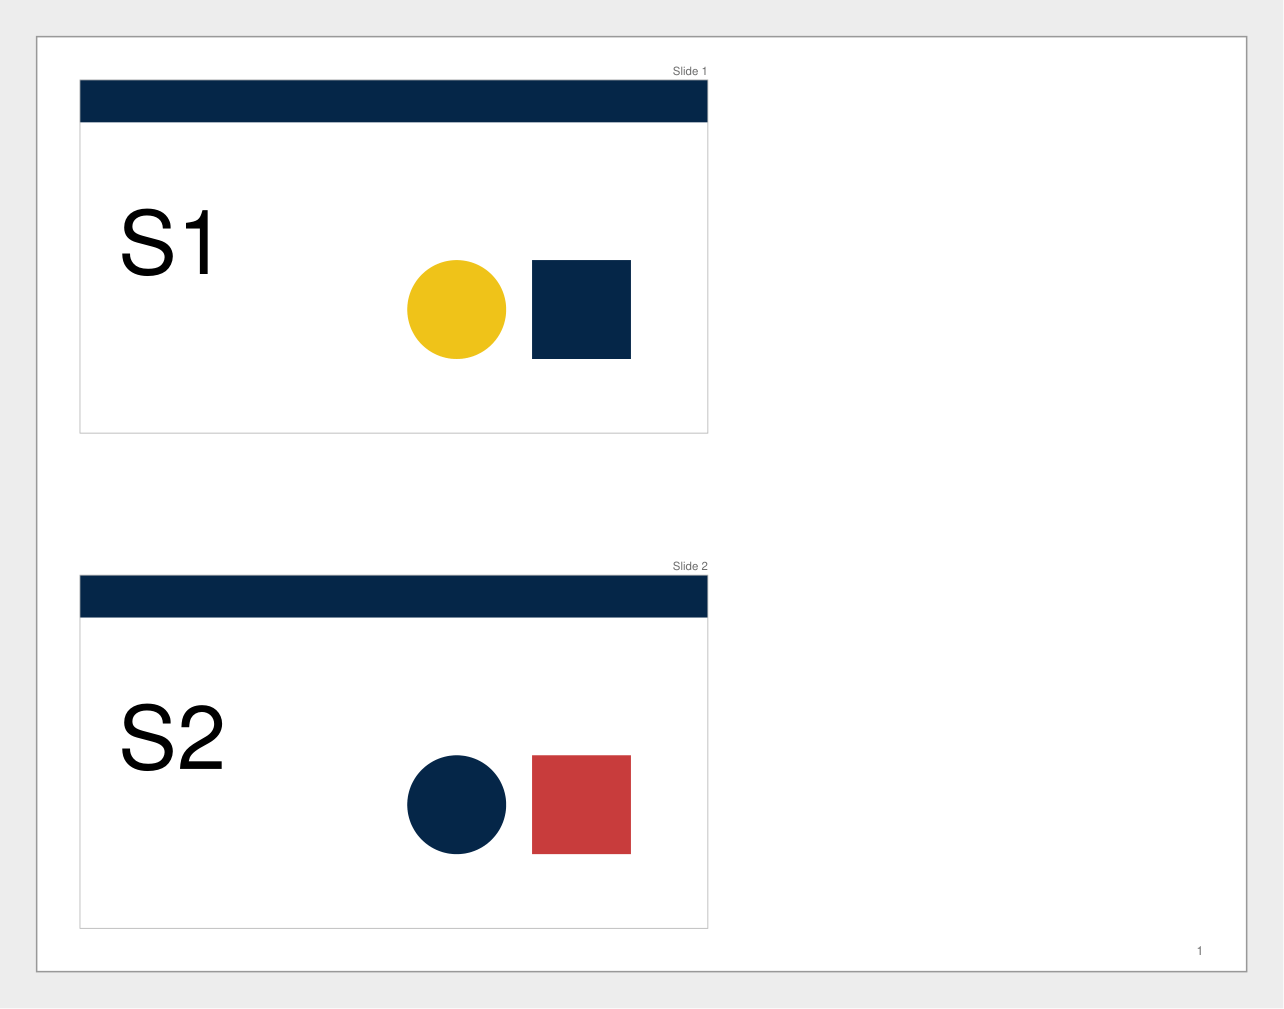
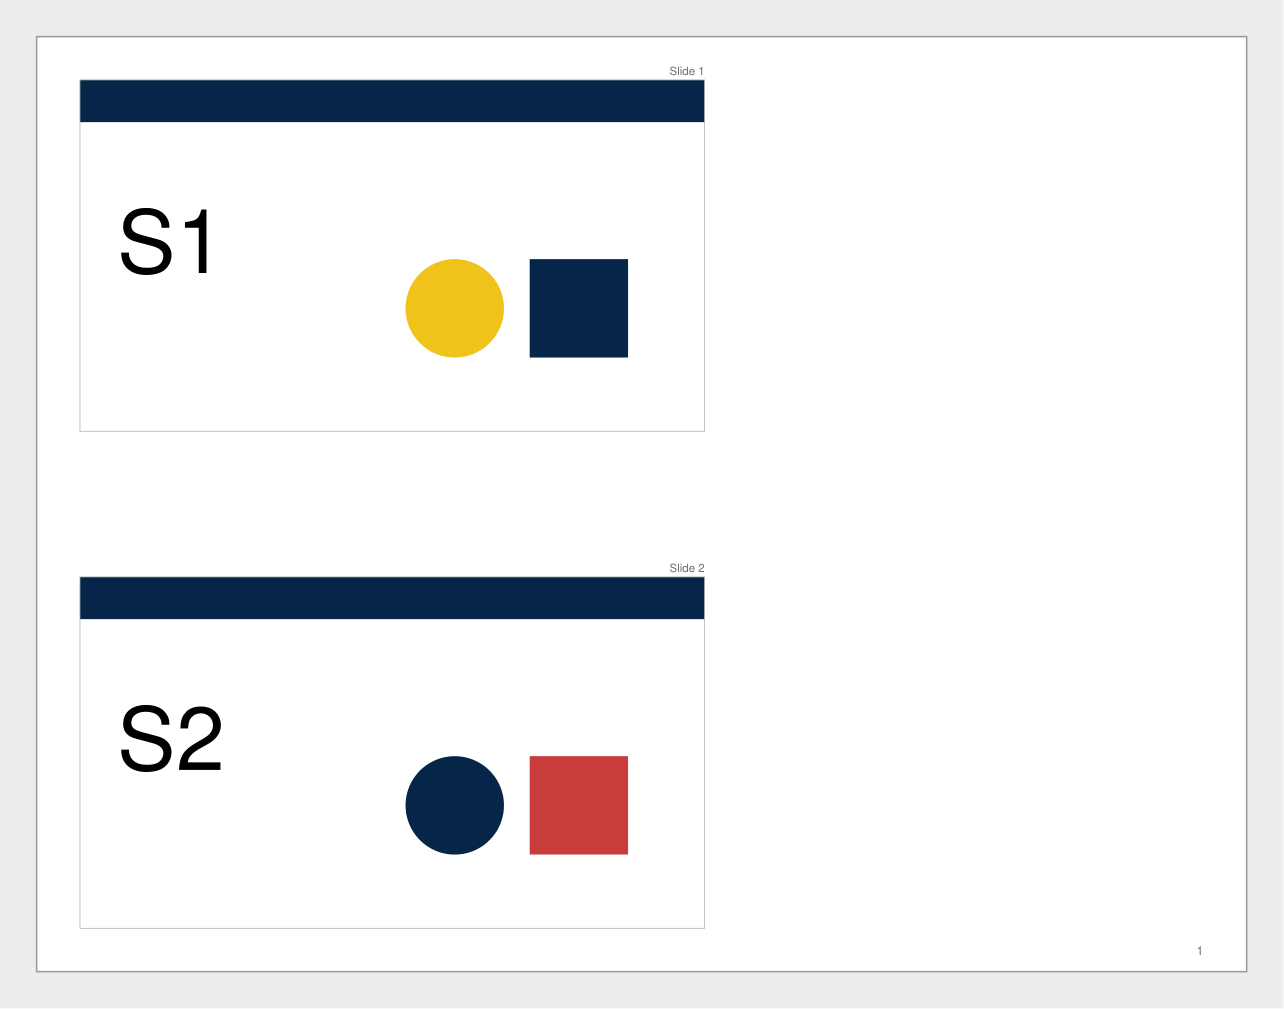
feat: 5 mm minimum gap and a 120 ppi soft-photo line
Julian's calls from the gallery review and the acceptance run on
2026-11-10. The 4 mm gap put each label just under the slide above in
tight stacks; landscape "larger" slides are now 107.4 mm wide. At 150
ppi, 202 of 581 slides on a real deck were flagged at 145 mm; at 120
ppi, 4 are. Gallery images rebuilt.

diff --git a/scripts/slide_handouts/geometry.py b/scripts/slide_handouts/geometry.py
@@ -6,7 +6,7 @@ import pymupdf
 MM = 72 / 25.4
 PAPER = {"a4": (595.28, 841.89), "letter": (612.0, 792.0)}  # portrait width, height in pt
 MARGIN = 10 * MM
-GAP = 4 * MM            # minimum gap between cells
+GAP = 5 * MM            # minimum gap between cells (Julian raised it from 4 mm, 2026-11-10)
 BESIDE_GAP = 5 * MM     # slide edge to notes beside it
 BESIDE_MIN = 40 * MM    # narrowest notes beside a slide
 UNDER_GAP = 4 * MM      # slide bottom to notes under it
@@ -139,7 +139,7 @@ def check_layout(layout: PageLayout, opts: LayoutOptions) -> list[str]:
     for upper, lower in zip(tops, tops[1:]):
         bottom = max(max([c.slide.y1] + [n.y1 for n in c.notes]) for c in rows[upper])
         if min(c.slide.y0 for c in rows[lower]) - bottom < GAP - TOL:
-            problems.append("rows are closer than 4 mm")
+            problems.append(f"rows are closer than {GAP / MM:g} mm")
         if min(c.label.y0 for c in rows[lower]) - bottom < LABEL_CLEAR - TOL:
             problems.append("a label sits too close to the cell above it")
     for i, cell in enumerate(layout.cells, 1):

diff --git a/tests/test_render.py b/tests/test_render.py
@@ -76,6 +76,19 @@ def test_low_resolution_photo_is_flagged(tmp_path):
     assert res.low_res == [3]
 
 
+@pytest.mark.parametrize("px, flagged", [(505, False), (374, True)])
+def test_photo_warning_line_is_120_ppi(tmp_path, px, flagged):
+    # The photo spans half of a slide placed 190 mm wide: 95 mm, so 505 px prints at 135 ppi and 374 px at 100 ppi.
+    doc = pymupdf.open()
+    page = doc.new_page(width=720, height=405)
+    pix = pymupdf.Pixmap(pymupdf.csRGB, pymupdf.IRect(0, 0, px, px // 2), False)
+    pix.set_rect(pix.irect, (200, 60, 60))
+    page.insert_image(pymupdf.Rect(0, 0, 360, 180), pixmap=pix)
+    doc.save(str(tmp_path / "p.pdf"))
+    res, _ = build(tmp_path, src=tmp_path / "p.pdf", per_page=2, notes="under", size=190.0)
+    assert (res.low_res == [1]) is flagged
+
+
 def test_labels_keep_their_font_when_the_slides_also_use_helvetica(tmp_path):
     # The made-up slides set "S1" in PyMuPDF's "helv" too. That name must not hide the labels' own font.
     _, out = build(tmp_path, src=deck_pdf(tmp_path / "d.pdf", n=4))

diff --git a/tests/test_geometry.py b/tests/test_geometry.py
@@ -18,8 +18,12 @@ def test_larger_beside_portrait_matches_delivered_stack():
     assert abs(plan_page(opts(), R).slide_width_mm - 145) <= 0.5
 
 
-def test_larger_beside_landscape_matches_delivered_landscape():
-    assert abs(plan_page(opts(orientation="landscape"), R).slide_width_mm - 108.6) <= 0.5
+def test_larger_beside_landscape_fills_the_height_with_5mm_gaps():
+    # Julian raised the minimum gap from 4 to 5 mm on 2026-11-10, so this is no longer the delivered 108.6 mm.
+    lay = plan_page(opts(orientation="landscape"), R)
+    assert abs(lay.slide_width_mm - 107.4) <= 0.1
+    gaps = [b.slide.y0 - a.slide.y1 for a, b in zip(lay.cells, lay.cells[1:])]
+    assert min(gaps) >= 5 * 72 / 25.4 - 0.01
 
 
 def test_larger_under_two_per_page_matches_delivered_two():

diff --git a/scripts/slide_handouts/render.py b/scripts/slide_handouts/render.py
@@ -13,7 +13,7 @@ LINE = (0.73, 0.73, 0.73)
 LABEL = (0.43, 0.43, 0.43)          # #6E6E6E, 4.5 to 1 on white
 LABEL_COLOUR_INT = 0x6E6E6E
 FIELD_TEXT = (0.13, 0.13, 0.13)
-LOW_PPI = 150
+LOW_PPI = 120  # Julian lowered it from 150 on 2026-11-10: at 150, half of a real deck was flagged
 LABEL_RE = re.compile(r"^Slide (-?\d+)$")
 
 

diff --git a/README.md b/README.md
@@ -173,7 +173,7 @@ Saved layouts live on your own computer, in `~/.config/slide-handouts/layouts.js
 
 **Mac and Windows.** Handout detection was tested on exports from PowerPoint and Keynote for Mac. PowerPoint for Windows is expected to give the same handouts, but this is not yet tested. The plugin is expected to work on Windows, but it is not yet tested there.
 
-**Photos that may print soft.** If a photo would print at under 150 pixels per inch at its new size, Claude names the slides it is on. The handout is still made. A fresh export from the original deck may be sharper.
+**Photos that may print soft.** If a photo would print at under 120 pixels per inch at its new size, Claude names the slides it is on. The handout is still made. A fresh export from the original deck may be sharper.
 
 **Your files are safe.** The plugin never changes your file and never replaces an earlier handout. A new handout with a name that is already taken gets `_v2`, `_v3` and so on.
 
